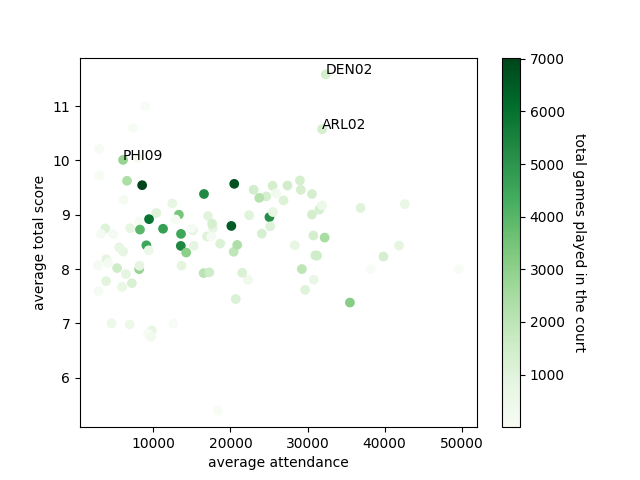
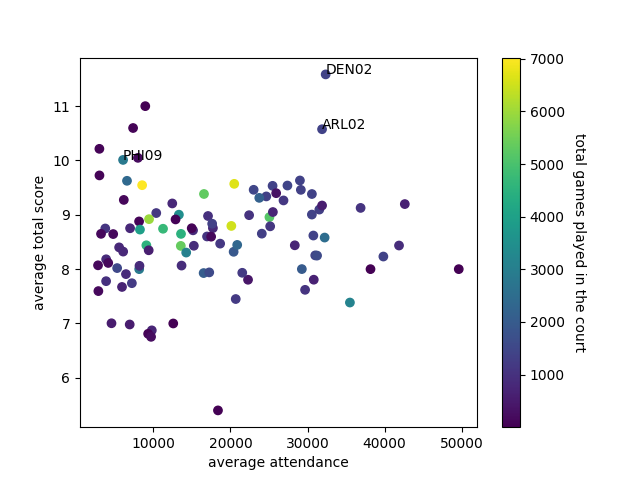
refactors of the graphs a density graph added

diff --git a/final-project/src/plots/courts/courts_plot.py b/final-project/src/plots/courts/courts_plot.py
@@ -1,5 +1,7 @@
 import matplotlib.pyplot as plt
 import numpy as np
+from scipy.stats import gaussian_kde
+import pandas as pd
 
 def courts_v_score(df):
     courts = np.unique(df[['park_id']].values.ravel())
@@ -14,6 +16,7 @@ def courts_v_score(df):
     names_label =[]
     amount = []
     visiters = []
+    amount_total = []
 
     for current_courts in courts:
         #home_games_won = df.loc[(df['park_id'] == current_courts), 'h_score'].sum()
@@ -22,7 +25,8 @@ def courts_v_score(df):
             .size() \
             .to_dict()
         home_games_won = home_games_won.get(current_courts)
-        attendance = df.loc[(df['park_id'] == current_courts), 'attendance'].mean()
+        attendance = df.loc[(df['park_id'] == current_courts),"attendance"].mean()
+        # attendance = df[(df['park_id'] == current_courts)].groupby('park_id').size().get(current_courts)
 
         #visiting_games_won = df.loc[(df['park_id'] == current_courts), 'v_score'].sum()
         visiting_games_won = df[(df['park_id'] == current_courts) & (df['h_score'] < df['v_score'])] \
@@ -40,29 +44,39 @@ def courts_v_score(df):
             quota.append(res)
             names.append(current_courts)
             visiters.append(attendance)
+            amount_total.append(df[(df['park_id'] == current_courts)].groupby('park_id').size().get(current_courts))
 
-            if res >= 5.0:
-                print(current_courts)
-                print(f"quota :  {res}")
-                print(home_games_won + visiting_games_won)
 
-            if home_games_won/visiting_games_won > 1.3 and home_games_won + visiting_games_won > 3000:
-                home_win_label.append(home_games_won)
-                visit_win_label.append(visiting_games_won)
-                names_label.append(current_courts)
+            #if res >= 5.0:
+                #print(current_courts)
+                #print(f"quota :  {res}")
+                #print(home_games_won + visiting_games_won)
+
+            if res > 1.5 and attendance > 20000 and attendance < 35000:
+
+                home_win_label.append(res)
+                visit_win_label.append(attendance)
+                #names_label.append(current_courts)
 
         #merged_wins = {key: home_games_won.get(key, 0) / visiting_games_won.get(key, 0)
                       # for key in set(home_games_won) | set(visiting_games_won)}
 
-    plt.scatter( visit_win,home_win, c = visiters , cmap = "Greens")
-    plt.plot([0,3000],[0,3000])
-    plt.xlabel("visiting team wins")
-    plt.ylabel("home team wins")
-    plt.annotate("winning parity line", (1450,1600))
+    plt.scatter( visiters, quota , c = amount_total , cmap = "viridis")
+    #plt.plot([0,3000],[0,3000],"r--")
+    #plt.plot([0, 3000], [0, 3900])
+    #plt.semilogy()
+    #plt.semilogx()
+    plt.title("home court advantage")
+    plt.ylabel("home wins / visiting wins")
+    plt.xlabel("average attendance")
+    #plt.annotate("winning parity line", (1450,1600))
     cbar = plt.colorbar()
     #cbar.ax.set_yticklabels(['', '20m', '40m', '60m', '80m', '100m'])
     cbar.ax.get_yaxis().labelpad = 15
-    cbar.set_label("average attendance", rotation=270)
+    cbar.set_label("games played", rotation=270)
+    names_label.append("old Yankee Stadium ")
+    #plt.annotate("old Yankee Stadium ", (visit_win_label[0],visit_win_label[0] ))
+    print(visit_win_label)
     for name,x,y in zip(names_label,visit_win_label,home_win_label):
         plt.annotate(name, (x,y))
 
@@ -104,7 +118,7 @@ def courts_total_score_vs_attendance(df):
         #merged_wins = {key: home_games_won.get(key, 0) / visiting_games_won.get(key, 0)
                       # for key in set(home_games_won) | set(visiting_games_won)}
 
-    plt.scatter( attendance,total_score,c = amount, cmap = 'Greens')
+    plt.scatter( attendance,total_score,c = amount, cmap = 'viridis')
     plt.xlabel("average attendance")
     plt.ylabel("average total score")
     cbar = plt.colorbar()
@@ -112,8 +126,8 @@ def courts_total_score_vs_attendance(df):
     cbar.ax.get_yaxis().labelpad = 15
     cbar.set_label("total games played in the court", rotation=270)
 
-    for name,x,y in zip(names_label,mean_label,total_score_label):
-        plt.annotate(name, (x,y))
+    #for name,x,y in zip(names_label,mean_label,total_score_label):
+    #    plt.annotate(name, (x,y))
 
 #A good one
 def courts_homeruns(df):
@@ -124,33 +138,45 @@ def courts_homeruns(df):
     games_played = []
     ratio = []
     visiters = []
+    amount_label = []
+    visiters_label = []
+
+
 
     for current_courts in courts:
-        home_homeruns = df.loc[(df['park_id'] == current_courts), 'v_homeruns'].sum()
-        visiting_homeruns = df.loc[(df['park_id'] == current_courts), 'h_homeruns'].sum()
+        home_homeruns = df.loc[(df['park_id'] == current_courts), 'v_homeruns'].mean()
+        visiting_homeruns = df.loc[(df['park_id'] == current_courts), 'h_homeruns'].mean()
         attendance = df.loc[(df['park_id'] == current_courts), 'attendance'].mean()
         games2 = df[(df['park_id'] == current_courts)].groupby('park_id') \
             .size() \
             .to_dict()
 
         games = games2.get(current_courts)
+        #games > 1000 and
+        if(games > 500 and games is not None):
 
-        if(games > 1000 and games is not None):
-            names.append(current_courts)
             amount.append(home_homeruns + visiting_homeruns)
             games_played.append(games)
             visiters.append(attendance)
+        if(home_homeruns + visiting_homeruns > 2.5 or attendance > 35000 or (home_homeruns + visiting_homeruns < 0.7 and games > 2000)):
+            amount_label.append(home_homeruns + visiting_homeruns)
+            names.append(current_courts)
+            visiters_label.append(attendance)
 
         #merged_wins = {key: home_games_won.get(key, 0) / visiting_games_won.get(key, 0)
                       # for key in set(home_games_won) | set(visiting_games_won)}
 
-    plt.scatter(games_played, amount, c = visiters , cmap = "Greens" )
-    plt.xlabel("games played in the court")
-    plt.ylabel("home runs achieved")
+    plt.scatter(visiters, amount, c = games_played , cmap = "viridis" )
+    plt.xlabel("average attendance")
+    plt.ylabel("homeruns per game")
     cbar = plt.colorbar()
-    cbar.ax.set_yticklabels(['','5', '10', '15', '20','25','30','35'])
+    #for name, x, y in zip(names, visiters_label, amount_label):
+    #    plt.annotate(name, (x, y))
+
+    #cbar.ax.set_yticklabels(['','5', '10', '15', '20','25','30','35'])
+    plt.title("do homerunns make stadiums popular?")
     cbar.ax.get_yaxis().labelpad = 15
-    cbar.set_label("average visitor count in thousands", rotation = 270)
+    cbar.set_label("games played", rotation = 270)
 
 def courts_homeruns_comp(df):
     courts = np.unique(df[['park_id']].values.ravel())
@@ -271,19 +297,63 @@ def courts_visitors_together(df):
             mean_label.append(attendance)
             rec_label.append(attendance_rec)
             names_label.append(current_courts)
-            print(attendance_rec)
+            #print(attendance_rec)
 
         # merged_wins = {key: home_games_won.get(key, 0) / visiting_games_won.get(key, 0)
                       # for key in set(home_games_won) | set(visiting_games_won)}
 
-    plt.scatter(amount, record, c = sum, cmap= "Greens")
+    plt.scatter(amount, record, c = sum, cmap= "viridis")
     plt.ylabel("record attendance")
     plt.xlabel("average attendance")
     cbar = plt.colorbar()
+    #plt.
+    #plt.lines(x = 0.5, ymin = 10000 , ymax = 70000 , color = "black")
+    plt.plot([5000, 40000], [10000, 80000] , "r--")
+    plt.plot([8000, 40000], [10000, 50000] , "r--")
+    plt.text(33500,80000,"50% utilization")
+    plt.text( 33500, 51000, "80% utilization")
+
     cbar.ax.set_yticklabels(['','20m', '40m', '60m', '80m','100m'])
     cbar.ax.get_yaxis().labelpad = 15
     cbar.set_label("total livetime attendance in million visitors", rotation=270)
     plt.title(" are big stadiums the most popular?")
 
-    for name,x,y in zip(names_label,mean_label,rec_label):
-        plt.annotate(name, (x,y))
+    #for name,x,y in zip(names_label,mean_label,rec_label):
+    #    plt.annotate(name, (x,y))
+
+def court_size_range(df):
+    decades = np.unique(df[['date_decade']].values.ravel())
+    courts = np.unique(df[['park_id']].values.ravel())
+
+    assembled_average_attendance = []
+    plt.title("spread of average attendance through the decades")
+    for current_decade in decades:
+        plt.figure()
+        average_attendance = []
+        for current_court in courts:
+            # print(df[df['date_decade'] == '1900s', 'attendance'].groupby('park_id').mean().to_dict())
+            dec = df[(df['date_decade'] == current_decade)]
+            x = dec.loc[(df['park_id'] == current_court), 'attendance'].mean()
+            if x is not None:
+                average_attendance.append(x)
+        assembled_average_attendance.append(average_attendance)
+        # assembled_average_attendance.set
+    ax = pd.DataFrame({decades[0]: assembled_average_attendance[0]}).plot(kind='kde')
+    for i in range(1,10):
+        pd.DataFrame({decades[i]: assembled_average_attendance[i]}).plot(kind='kde',ax = ax)
+    #frame = pd.DataFrame({decades[0]: assembled_average_attendance[0],
+    #                      decades[1]: assembled_average_attendance[1],
+    #                      decades[2]: assembled_average_attendance[2],
+    #                      decades[3]: assembled_average_attendance[3],
+    #                      decades[4]: assembled_average_attendance[4],
+    #                      decades[5]: assembled_average_attendance[5],
+    #                      decades[6]: assembled_average_attendance[6],
+    #                      decades[7]: assembled_average_attendance[7],
+    #                      decades[8]: assembled_average_attendance[8],
+    #                      decades[9]: assembled_average_attendance[9]})
+    #pd.DataFrame(frame).plotmo(kind='kde')
+    plt.show()
+
+    #plt.density((assembled_average_attendance[0], bw=0.5),alpha = 0.3)
+    #plt.density(assembled_average_attendance[6],alpha = 0.3)
+    #plt.density(assembled_average_attendance[9],alpha = 0.3)

diff --git a/final-project/src/plots/weeks/week_plot.py b/final-project/src/plots/weeks/week_plot.py
@@ -73,18 +73,22 @@ def weekday_importance(df):
             sa_bot.append(0)
             so_bot.append(0)
         count.append(current_decade)
+    fig = plt.figure()
+    axes = fig.add_axes([0.1, 0.1, 0.68, 0.75])
+    axes.bar(count,mo, color = 'r')
+    axes.bar(count,di,bottom=mo)
+    axes.bar(count, mi, bottom= mi_bot)
+    axes.bar(count, do, bottom=do_bot)
+    axes.bar(count, fr, bottom=fr_bot)
+    axes.bar(count, sa, bottom=sa_bot)
+    axes.bar(count, so, bottom=so_bot)
+    axes.set_xlabel("decade")
 
-    plt.bar(count,mo, color = 'r')
-    plt.bar(count,di,bottom=mo)
-    plt.bar(count, mi, bottom= mi_bot)
-    plt.bar(count, do, bottom=do_bot)
-    plt.bar(count, fr, bottom=fr_bot)
-    plt.bar(count, sa, bottom=sa_bot)
-    plt.bar(count, so, bottom=so_bot)
-    plt.xlabel("decade")
-    plt.ylabel("attendance per weekday in %")
-    plt.legend(["Monday", "Tuesday", "Wednesday","Thursday","Friday","Saturday","Sunday"],bbox_to_anchor=(1.02, 1),loc = 'upper left')
-    plt.title("What Weekday is the most popular?")
+    axes.set_ylabel("attendance per weekday in %")
+    axes.legend(["Monday", "Tuesday", "Wednesday","Thursday","Friday","Saturday","Sunday"],bbox_to_anchor=(1.02, 1),loc = 'upper left')
+    axes.set_title("What Weekday is the most popular?")
+    fig.savefig('week1', bbox_inches='tight')
+    plt.show()
 
 def weekday_games(df):
     decades = np.unique(df[['date_decade']].values.ravel())

diff --git a/final-project/src/vis_main.py b/final-project/src/vis_main.py
@@ -12,10 +12,11 @@ exporter.append_section('Main Plots')
 
 #exporter.append_subsection('Leo Graphs - TODO rename')
 
-exporter.append_graph(courts_plot.courts_v_score)
-exporter.append_graph(courts_plot.courts_total_score_vs_attendance)
-exporter.append_graph(courts_plot.courts_homeruns)
-exporter.append_graph(courts_plot.courts_visitors_together)
+#exporter.append_graph(courts_plot.courts_v_score)
+#exporter.append_graph(courts_plot.courts_v_score)
+#exporter.append_graph(courts_plot.courts_total_score_vs_attendance)
+#exporter.append_graph(courts_plot.courts_homeruns)
+#exporter.append_graph(courts_plot.courts_visitors_together)
 
 exporter.append_graph(week_plot.weekday_importance)
 
